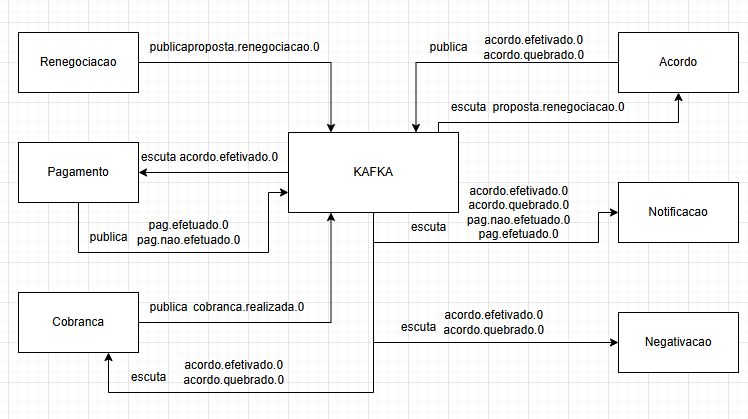
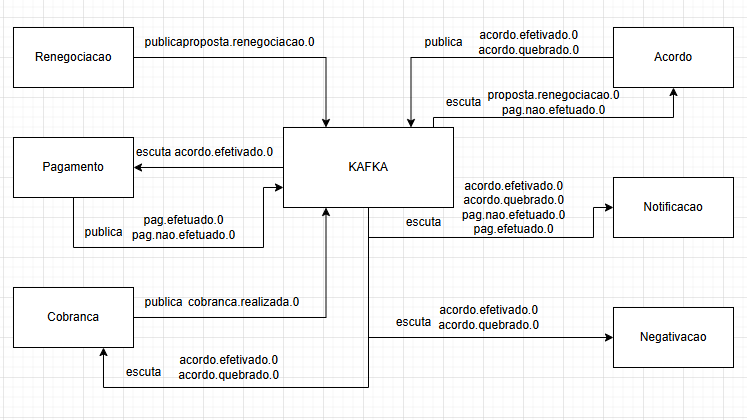
Fix readme system design image.

diff --git a/README.md b/README.md
@@ -87,7 +87,7 @@ Isso iniciará a aplicação em segundo plano na porta 8081.
   > "Infelizmente seu acordo foi cancelado devido à ausência de pagamento. Seu nome poderá ser negativado novamente."
 
 ### System design como um todo
-![img.png](img.png)
+![img_1.png](img.png)
 
 ---
 ## Ferramentas usadas para auxilio de qualidade e codigo
